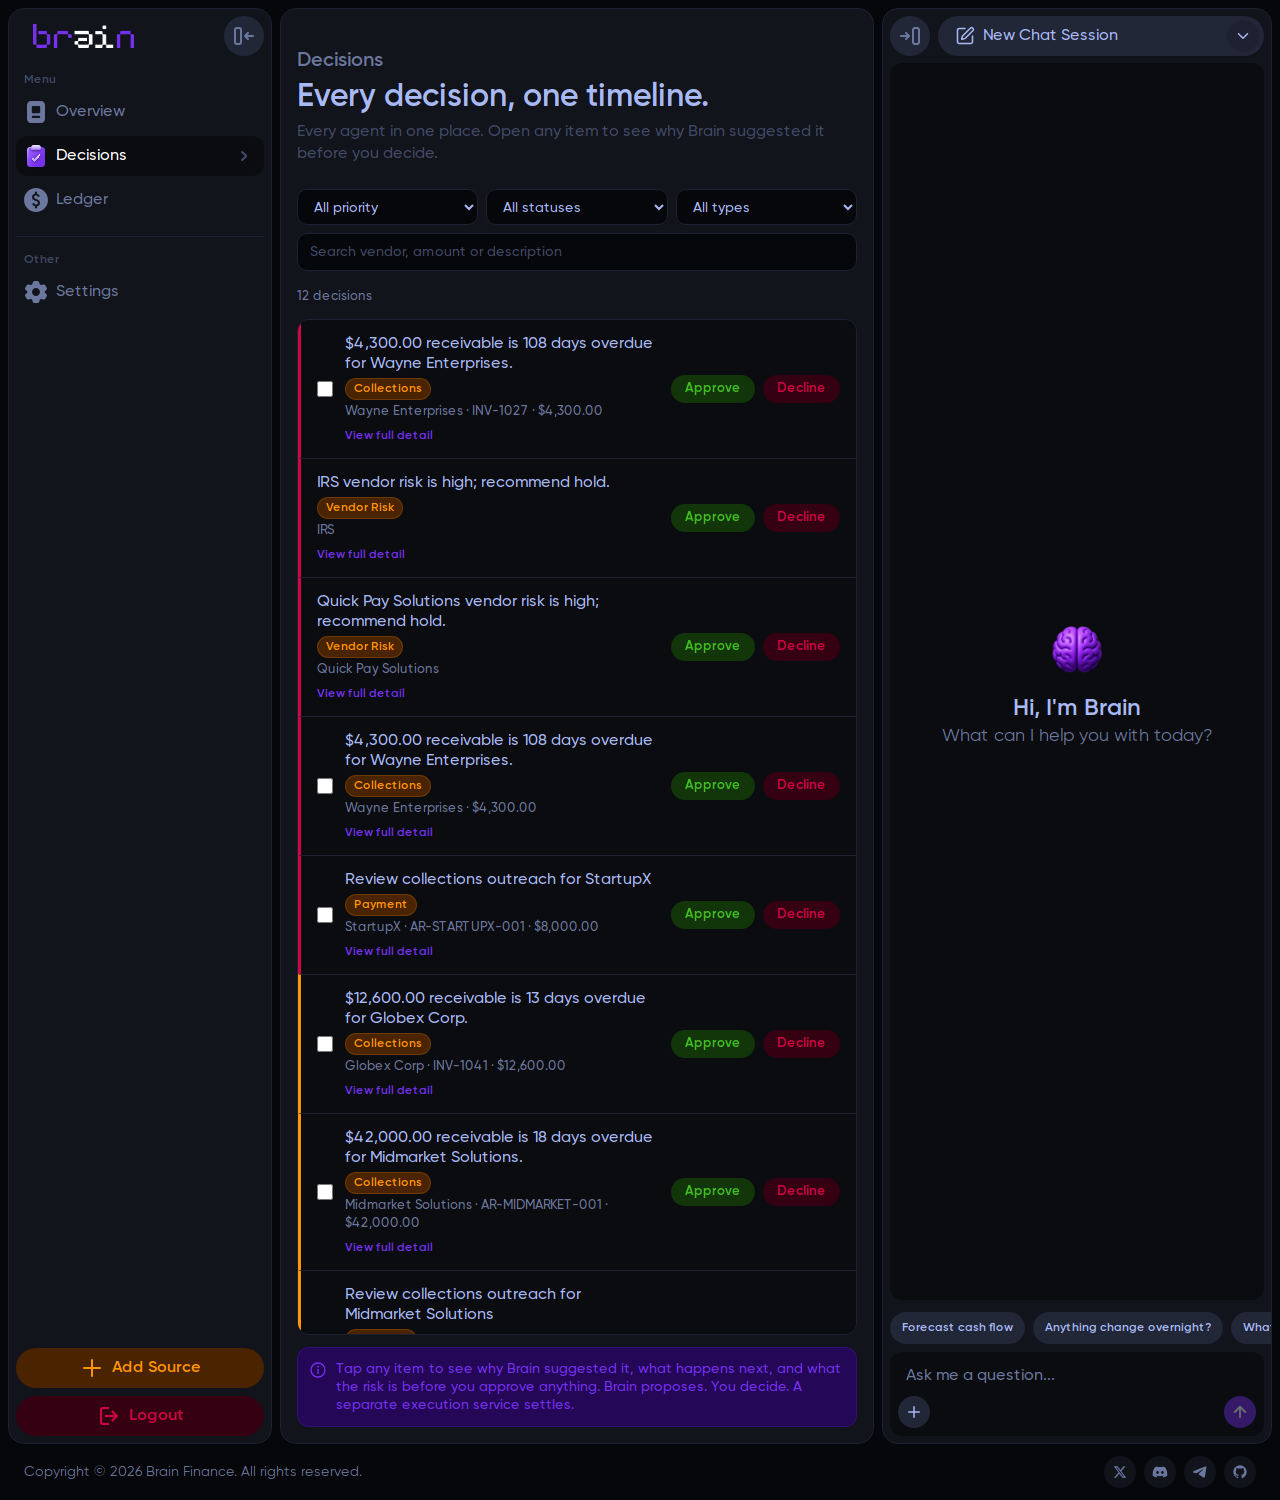
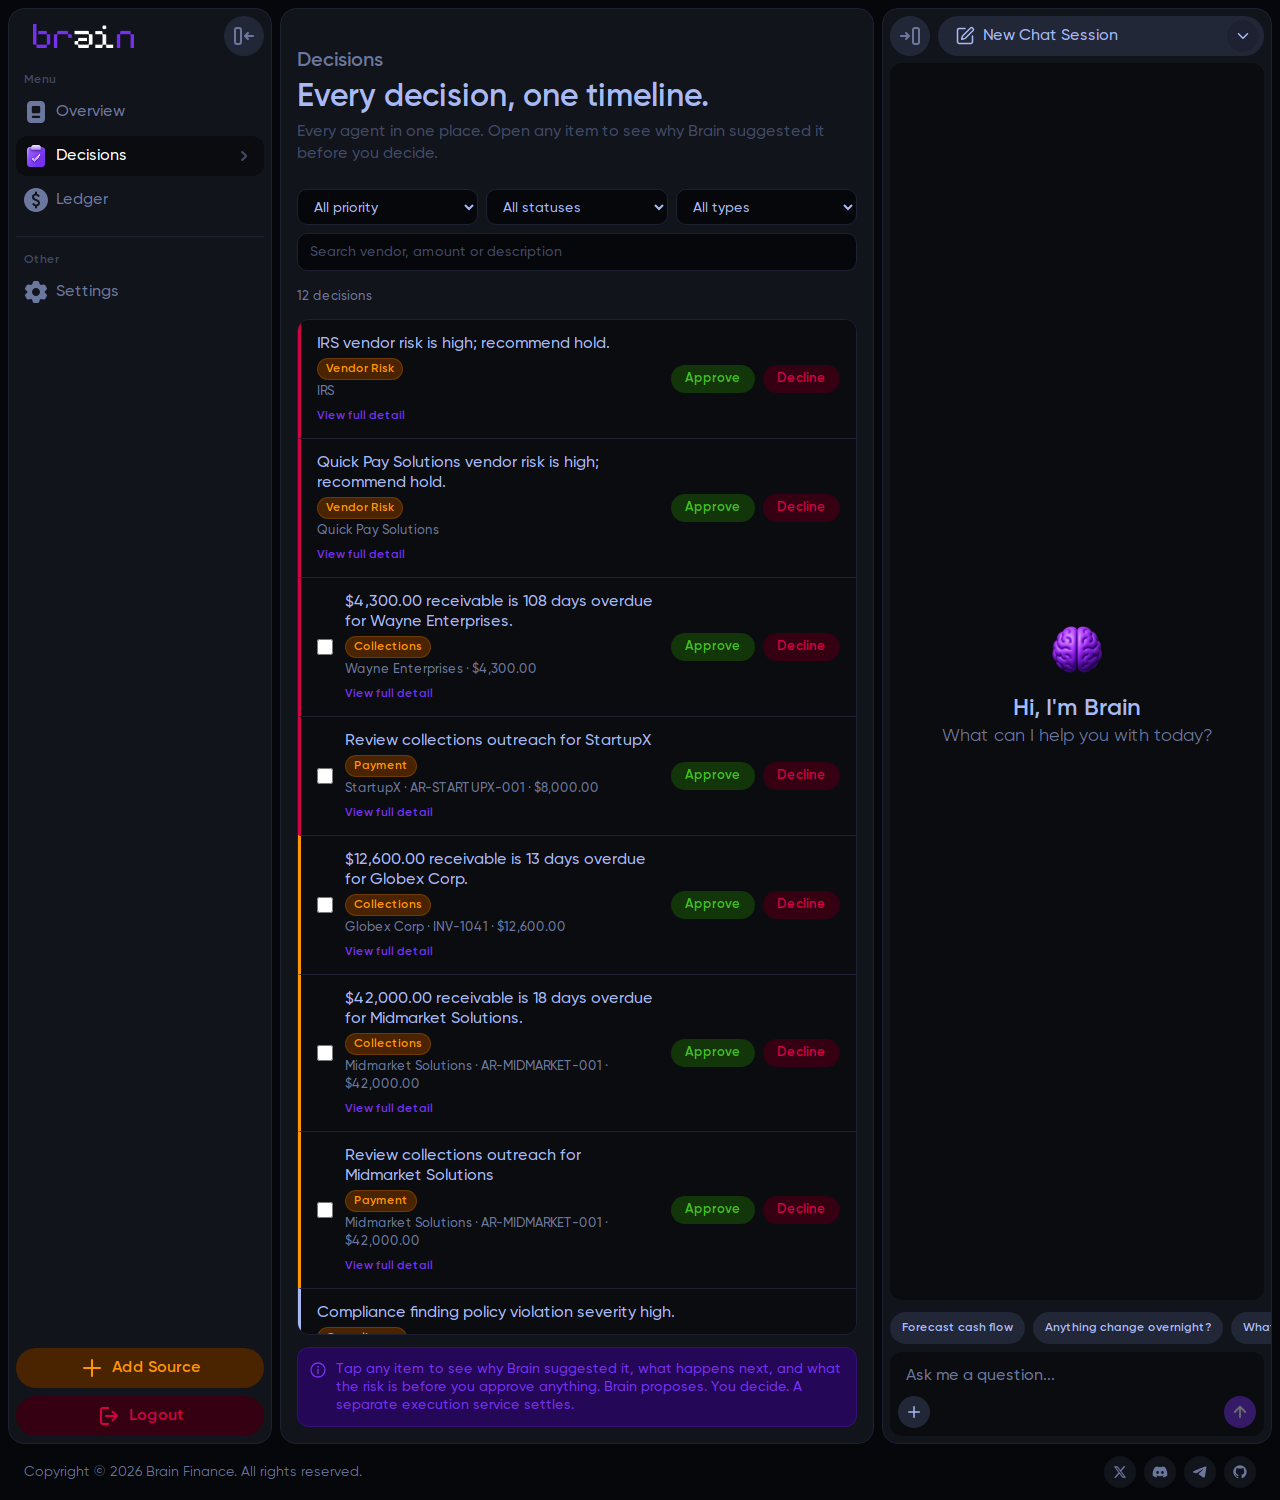
Require a policy line for bulk eligibility; suppress unconditional categories
Two fail-open holes from code review, both in the direction that matters.

A user-authored rule could stand alone as the gate when the policy had no
line for a record's category — including when the policy could not be
read at all. That contradicted the module's own stated invariant and
quietly reintroduced the semantics it exists to reject: a rule `cap` is
an auto-clear ceiling, the same kind of number as the auto-approve clause
argued against in the header, and it asserts nothing about how many
people must sign. It can only ever pull an established line lower, never
establish one. An unreachable policy now yields no checkboxes whatever
rules the tenant has authored.

Second, an elevated clause carrying no parseable amount was skipped
rather than honoured. "Outbound payments require owner and CFO", with no
amount at all, means every outbound payment needs two signers — the
strictest possible reading, not an absent one. Skipping it let a sibling
amount-gated clause on the same category set a limit and authorise
batches the policy forbids outright. Such a category is now suppressed
entirely, and a clause whose comparator this code cannot parse is
suppressed on the same grounds: unparsed is unknown, and unknown fails
closed.

Verified against the running app: blocking the policy read leaves all 12
rows rendering with 0 checkboxes. 39 tests on the module, 598/599 overall.

diff --git a/client/src/lib/bulkApprove.test.ts b/client/src/lib/bulkApprove.test.ts
@@ -8,6 +8,7 @@ import {
   resolveBulkSelection,
   isBlockedByType,
   runBulkApprove,
+  NO_POLICY_ELEVATION,
   type BulkCandidate,
   type BulkLimit,
 } from "./bulkApprove";
@@ -73,13 +74,13 @@ const candidate = (over: Partial<BulkCandidate> = {}): BulkCandidate => ({
   ...over,
 });
 
+const policyOf = (...rules: ApprovalPolicyFacts["rules"]): ApprovalPolicyFacts => ({ ...LIVE_POLICY, rules });
+
 describe("elevatedThresholdsFromPolicy", () => {
   it("reads the real per-category second-approver lines out of the live policy", () => {
-    expect(elevatedThresholdsFromPolicy(LIVE_POLICY)).toEqual({
-      outbound_payment: 50_000,
-      onchain_tx: 250_000,
-      agent_action: 500_000,
-    });
+    const e = elevatedThresholdsFromPolicy(LIVE_POLICY);
+    expect(e.limits).toEqual({ outbound_payment: 50_000, onchain_tx: 250_000, agent_action: 500_000 });
+    expect([...e.unconditional]).toEqual([]);
   });
 
   it("ignores the auto-approve clause entirely", () => {
@@ -87,48 +88,72 @@ describe("elevatedThresholdsFromPolicy", () => {
        under-$50k payment in the queue failed its counterparty check. It must never
        become a bulk threshold. Here the only outbound number comes from the
        `confirm` clause — same figure, entirely different meaning. */
-    const autoOnly: ApprovalPolicyFacts = {
-      ...LIVE_POLICY,
-      rules: LIVE_POLICY.rules.filter((r) => r.execute === "auto"),
-    };
-    expect(elevatedThresholdsFromPolicy(autoOnly)).toEqual({});
+    const e = elevatedThresholdsFromPolicy(policyOf(...LIVE_POLICY.rules.filter((r) => r.execute === "auto")));
+    expect(e.limits).toEqual({});
+    expect([...e.unconditional]).toEqual([]);
   });
 
   it("ignores confirm clauses that only need a single signer", () => {
-    const singleOnly: ApprovalPolicyFacts = {
-      ...LIVE_POLICY,
-      rules: [
-        { id: "x", execute: "confirm", require: "single_signer", when: { "amount.gt": { value: "10.00", currency: "USD" } }, applies_to: ["agent_action"] },
-      ],
-    };
-    expect(elevatedThresholdsFromPolicy(singleOnly)).toEqual({});
+    const e = elevatedThresholdsFromPolicy(policyOf(
+      { id: "x", execute: "confirm", require: "single_signer", when: { "amount.gt": { value: "10.00", currency: "USD" } }, applies_to: ["agent_action"] },
+    ));
+    expect(e.limits).toEqual({});
+    expect([...e.unconditional]).toEqual([]);
   });
 
   it("treats an unrecognised requirement as elevated, not as harmless", () => {
-    const future: ApprovalPolicyFacts = {
-      ...LIVE_POLICY,
-      rules: [
-        { id: "x", execute: "confirm", require: "board_vote", when: { "amount.gt": 900 }, applies_to: ["agent_action"] },
-      ],
-    };
-    expect(elevatedThresholdsFromPolicy(future)).toEqual({ agent_action: 900 });
+    const e = elevatedThresholdsFromPolicy(policyOf(
+      { id: "x", execute: "confirm", require: "board_vote", when: { "amount.gt": 900 }, applies_to: ["agent_action"] },
+    ));
+    expect(e.limits).toEqual({ agent_action: 900 });
   });
 
   it("takes the lowest line when several clauses cover one category", () => {
-    const many: ApprovalPolicyFacts = {
-      ...LIVE_POLICY,
-      rules: [
-        { id: "a", execute: "confirm", require: "owner_approval", when: { "amount.gt": 90_000 }, applies_to: ["agent_action"] },
-        { id: "b", execute: "confirm", require: "owner_approval", when: { "amount.gt": 20_000 }, applies_to: ["agent_action"] },
-      ],
-    };
-    expect(elevatedThresholdsFromPolicy(many)).toEqual({ agent_action: 20_000 });
+    const e = elevatedThresholdsFromPolicy(policyOf(
+      { id: "a", execute: "confirm", require: "owner_approval", when: { "amount.gt": 90_000 }, applies_to: ["agent_action"] },
+      { id: "b", execute: "confirm", require: "owner_approval", when: { "amount.gt": 20_000 }, applies_to: ["agent_action"] },
+    ));
+    expect(e.limits).toEqual({ agent_action: 20_000 });
+  });
+
+  it("marks a category unconditional when it needs two signers with no amount condition", () => {
+    /* "outbound payments require owner and CFO", full stop. Every one of them needs
+       two signers, so none may be batched — the absence of a number is the STRICTEST
+       reading, not a missing one. */
+    const e = elevatedThresholdsFromPolicy(policyOf(
+      { id: "x", execute: "confirm", require: "owner_and_cfo", applies_to: ["outbound_payment"] },
+    ));
+    expect(e.limits).toEqual({});
+    expect([...e.unconditional]).toEqual(["outbound_payment"]);
+  });
+
+  it("marks a category unconditional when the amount uses a comparator it cannot parse", () => {
+    const e = elevatedThresholdsFromPolicy(policyOf(
+      { id: "x", execute: "confirm", require: "owner_approval", when: { "amount.gte": 1_000 }, applies_to: ["agent_action"] },
+    ));
+    expect([...e.unconditional]).toEqual(["agent_action"]);
+  });
+
+  it("lets an unconditional clause override a sibling clause's number", () => {
+    /* The dangerous shape: one clause says "over $20k needs two signers", another
+       says "these always need two signers". Reading only the first would authorise
+       batches the second forbids outright. */
+    const e = elevatedThresholdsFromPolicy(policyOf(
+      { id: "a", execute: "confirm", require: "owner_approval", when: { "amount.gt": 20_000 }, applies_to: ["agent_action"] },
+      { id: "b", execute: "confirm", require: "owner_approval", applies_to: ["agent_action"] },
+    ));
+    expect(e.limits).toEqual({ agent_action: 20_000 });
+    expect([...e.unconditional]).toEqual(["agent_action"]);
+    /* and the gate must refuse despite the number being present */
+    expect(bulkLimitFor("collections", "agent_action", e, {})).toBeNull();
   });
 
   it("is empty for a missing or unreadable policy", () => {
-    expect(elevatedThresholdsFromPolicy(undefined)).toEqual({});
-    expect(elevatedThresholdsFromPolicy(null)).toEqual({});
-    expect(elevatedThresholdsFromPolicy({ ...LIVE_POLICY, rules: [] })).toEqual({});
+    for (const empty of [undefined, null, policyOf()]) {
+      const e = elevatedThresholdsFromPolicy(empty);
+      expect(e.limits).toEqual({});
+      expect([...e.unconditional]).toEqual([]);
+    }
   });
 });
 
@@ -161,20 +186,39 @@ describe("bulkLimitFor", () => {
       .toEqual({ value: 500_000, source: "policy" });
   });
 
-  it("still works from a user rule alone when the category has no policy line", () => {
-    expect(bulkLimitFor("collections", "ledger_write", policy, { collections: 25_000 }))
-      .toEqual({ value: 25_000, source: "rule" });
+  it("keeps the policy line when the two are equal, reporting it as the policy's", () => {
+    expect(bulkLimitFor("collections", "agent_action", policy, { collections: 500_000 }))
+      .toEqual({ value: 500_000, source: "policy" });
   });
 
-  it("honours the revenue_intel ⟷ revenue_intelligence alias", () => {
-    expect(bulkLimitFor("revenue_intel", "ledger_write", policy, { revenue_intelligence: 4_000 }))
+  it("REFUSES on a user rule alone when the category has no policy line", () => {
+    /* A rule `cap` is an auto-clear ceiling. It says nothing about how many people
+       must sign, so it cannot establish that one approver suffices — it can only
+       pull an established line lower. Letting it stand alone would reintroduce the
+       auto-approve semantics this module exists to reject. */
+    expect(bulkLimitFor("collections", "ledger_write", policy, { collections: 25_000 })).toBeNull();
+  });
+
+  it("REFUSES everything when the policy could not be read, rules or not", () => {
+    /* The failure that matters. An unreachable policy must not leave a
+       user-authored cap as the only thing standing between a click and a batch. */
+    expect(bulkLimitFor("collections", "agent_action", NO_POLICY_ELEVATION, { collections: 25_000 })).toBeNull();
+    expect(bulkLimitFor("collections", "agent_action", NO_POLICY_ELEVATION, {})).toBeNull();
+  });
+
+  it("honours the revenue_intel ⟷ revenue_intelligence alias to tighten", () => {
+    expect(bulkLimitFor("revenue_intel", "agent_action", policy, { revenue_intelligence: 4_000 }))
       .toEqual({ value: 4_000, source: "rule" });
   });
 
-  it("is null when neither source has a number", () => {
-    expect(bulkLimitFor("collections", "ledger_write", policy, {})).toBeNull();
+  it("is null without a category to look the policy line up by", () => {
     expect(bulkLimitFor("collections", null, policy, {})).toBeNull();
-    expect(bulkLimitFor(null, "agent_action", {}, {})).toBeNull();
+    expect(bulkLimitFor("collections", "ledger_write", policy, {})).toBeNull();
+  });
+
+  it("still returns the policy line when the record has no type for a rule to scope to", () => {
+    expect(bulkLimitFor(null, "agent_action", policy, { collections: 10 }))
+      .toEqual({ value: 500_000, source: "policy" });
   });
 });
 

diff --git a/client/src/lib/bulkApprove.ts b/client/src/lib/bulkApprove.ts
@@ -38,9 +38,15 @@
  * This never widens what one user may approve. It only batches approvals that were
  * already theirs to make.
  *
- * A user-authored rule (source 1) still counts, and can only ever tighten the line:
- * where both apply the lower wins, matching `thresholdsFromRules`' existing
- * "lowest limit wins" convention.
+ * A user-authored rule (source 1) can only ever TIGHTEN that line — never establish
+ * one. This distinction is the whole safety property, so it is worth spelling out:
+ * a rule's `cap` is an auto-clear ceiling, which is the same *kind* of number as the
+ * auto-approve clause rejected above, and it carries no claim about how many people
+ * must sign. Letting a cap stand alone as the gate would quietly reintroduce exactly
+ * the semantics this module exists to avoid, and would do it in the worst case —
+ * when the policy could not be read at all. So a policy line is mandatory: no
+ * evaluable policy threshold for a record's category means no checkbox, whatever
+ * rules the tenant has authored.
  */
 
 import type { ApprovalPolicyFacts, PolicyContentRule } from "./brainPolicy";
@@ -77,11 +83,28 @@ function isElevatedConfirm(rule: PolicyContentRule): boolean {
   return rule.execute === "confirm" && rule.require !== SINGLE_SIGNER_REQUIREMENT;
 }
 
+export interface PolicyElevation {
+  /** category → the amount above which more than one approver is required. */
+  limits: Readonly<Record<string, number>>;
+  /**
+   * Categories that demand more than one approver with no amount condition this
+   * code can evaluate. Nothing in them is ever bulk-eligible.
+   *
+   * A clause like "outbound payments require owner and CFO", with no `amount.gt` at
+   * all, means EVERY outbound payment needs two signers — the strictest possible
+   * reading, not an absent one. Skipping such a clause because it has no number
+   * would let a different, amount-gated clause on the same category set a limit and
+   * silently authorise batches the policy forbids outright. A clause phrased with a
+   * comparator this code does not parse lands here for the same reason: unparsed is
+   * not unconditional-safe, it is unknown, and unknown fails closed.
+   */
+  unconditional: ReadonlySet<string>;
+}
+
 /**
- * policy category (`applies_to`) → the amount above which more than one approver
- * is required.
+ * Read the tenant's elevated-approval structure out of the signed policy.
  *
- * On the reference tenant this resolves to roughly
+ * On the reference tenant the limits resolve to
  * `{ outbound_payment: 50000, onchain_tx: 250000, agent_action: 500000 }`,
  * read from the signed document rather than written down here.
  *
@@ -90,20 +113,29 @@ function isElevatedConfirm(rule: PolicyContentRule): boolean {
  */
 export function elevatedThresholdsFromPolicy(
   facts: ApprovalPolicyFacts | null | undefined,
-): Readonly<Record<string, number>> {
-  const out: Record<string, number> = {};
+): PolicyElevation {
+  const limits: Record<string, number> = {};
+  const unconditional = new Set<string>();
+
   for (const rule of facts?.rules ?? []) {
     if (!rule || !isElevatedConfirm(rule)) continue;
     const limit = policyAmount(rule.when?.["amount.gt"]);
-    if (limit == null || limit <= 0) continue;
     for (const category of rule.applies_to ?? []) {
       if (typeof category !== "string" || !category.trim()) continue;
       const key = category.trim();
-      out[key] = out[key] == null ? limit : Math.min(out[key], limit);
+      if (limit == null || limit <= 0) {
+        unconditional.add(key);
+        continue;
+      }
+      limits[key] = limits[key] == null ? limit : Math.min(limits[key], limit);
     }
   }
-  return out;
+  return { limits, unconditional };
 }
+
+/** Nothing known. What an unreachable or absent policy resolves to — and, because
+ *  a policy line is mandatory below, what suppresses every checkbox. */
+export const NO_POLICY_ELEVATION: PolicyElevation = { limits: {}, unconditional: new Set() };
 
 /** Which policy category a record falls under. brain-core puts it on
  *  `details.kind` ("agent_action", "outbound_payment", …). */
@@ -122,31 +154,35 @@ export interface BulkLimit {
 }
 
 /**
- * The binding limit for one record: the lower of its policy category's
- * second-approver line and any active user rule scoped to its type.
+ * The binding limit for one record.
  *
- * Null when neither source has a number — no limit means no checkbox, never an
- * assumed one.
+ * A policy line for the record's category is REQUIRED. Only once one exists may an
+ * active user rule pull it lower. See the header: a rule cap is an auto-clear
+ * ceiling and asserts nothing about how many people must sign, so on its own it is
+ * not evidence that a single approver suffices — and "on its own" is precisely the
+ * case where the policy could not be read.
+ *
+ * Null whenever the answer is not positively known: no category, a category the
+ * policy escalates unconditionally, or no evaluable policy threshold.
  */
 export function bulkLimitFor(
   type: string | null | undefined,
   category: string | null | undefined,
-  policyLimits: Readonly<Record<string, number>>,
+  elevation: PolicyElevation,
   userThresholds: MaterialityThresholds | undefined,
 ): BulkLimit | null {
-  const policy = category ? policyLimits[category] : undefined;
+  if (!category) return null;
+  if (elevation.unconditional.has(category)) return null;
+
+  const policy = elevation.limits[category];
+  if (typeof policy !== "number" || !Number.isFinite(policy) || policy <= 0) return null;
+
   const cleanType = typeof type === "string" ? type.trim() : "";
   const rule = cleanType ? userThresholds?.[ruleAgentForProposalType(cleanType)] : undefined;
-
-  const candidates: BulkLimit[] = [];
-  if (typeof policy === "number" && Number.isFinite(policy) && policy > 0) {
-    candidates.push({ value: policy, source: "policy" });
+  if (typeof rule === "number" && Number.isFinite(rule) && rule > 0 && rule < policy) {
+    return { value: rule, source: "rule" };
   }
-  if (typeof rule === "number" && Number.isFinite(rule) && rule > 0) {
-    candidates.push({ value: rule, source: "rule" });
-  }
-  if (candidates.length === 0) return null;
-  return candidates.reduce((lowest, c) => (c.value < lowest.value ? c : lowest));
+  return { value: policy, source: "policy" };
 }
 
 /** The subset of a decision row bulk approval reads. Structural so the rules below

diff --git a/client/src/pages/InboxPage.tsx b/client/src/pages/InboxPage.tsx
@@ -675,12 +675,13 @@ export function InboxPage() {
      FAILED that clause.
 
      Note what happens when the policy cannot be read: `facts` is undefined, every
-     limit resolves to null, and no row is selectable. That is deliberate. An
-     approval shortcut offered on the strength of a limit we could not load is the
-     same failure as an empty queue that is really a failed fetch — it just costs
-     more when it is wrong. */
+     limit resolves to null, and no row is selectable — not even one covered by a
+     rule the tenant wrote, because a rule cap may only tighten a policy line, never
+     stand in for one. That is deliberate. An approval shortcut offered on the
+     strength of a limit we could not load is the same failure as an empty queue
+     that is really a failed fetch — it just costs more when it is wrong. */
   const policy = useBrainPolicy();
-  const policyLimits = useMemo(() => elevatedThresholdsFromPolicy(policy.facts), [policy.facts]);
+  const policyElevation = useMemo(() => elevatedThresholdsFromPolicy(policy.facts), [policy.facts]);
 
   const candidates = useMemo<BulkCandidate[]>(
     () =>
@@ -698,8 +699,8 @@ export function InboxPage() {
   );
 
   const limitOf = useMemo(
-    () => (c: BulkCandidate) => bulkLimitFor(c.type, c.category, policyLimits, thresholds),
-    [policyLimits, thresholds],
+    () => (c: BulkCandidate) => bulkLimitFor(c.type, c.category, policyElevation, thresholds),
+    [policyElevation, thresholds],
   );
   const eligible = useMemo(() => candidates.filter((c) => isBulkEligible(c, limitOf(c))), [candidates, limitOf]);
   const candidateById = useMemo(() => new Map(eligible.map((c) => [c.id, c])), [eligible]);

diff --git a/.agents/memory/bulk-approve-threshold-source.md b/.agents/memory/bulk-approve-threshold-source.md
@@ -23,7 +23,21 @@ widens anyone's authority.
 single-signer value, take their `amount.gt` per `applies_to` category, lowest
 wins. Treat an unrecognised `require` as elevated — an allowlist of safe values,
 not a denylist of dangerous ones, so a clause added to the DSL later fails
-closed. A user-authored rule cap can only ever *tighten* the resulting line.
+closed.
+
+Two corollaries that are easy to get wrong, both caught in review:
+
+- **A policy line is mandatory; a user rule may only tighten one.** A rule `cap`
+  is an auto-clear ceiling — the same *kind* of number as the auto-approve
+  clause rejected above — and asserts nothing about how many people must sign.
+  Letting a cap stand alone as the gate reintroduces the exact semantics you
+  rejected, and does it in the worst case: when the policy could not be read.
+- **An elevated clause with no parseable amount suppresses its whole category.**
+  "Outbound payments require owner and CFO", full stop, means *every* one needs
+  two signers. Skipping it for having no number lets a sibling amount-gated
+  clause set a limit and authorise batches the policy forbids outright. An
+  unparsed comparator lands here too: unparsed is unknown, and unknown fails
+  closed.
 
 Two related rules that fall out of the same reasoning:
 
